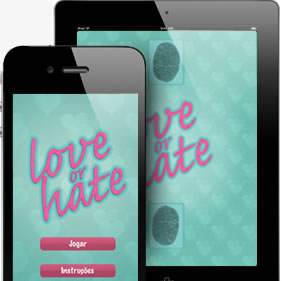
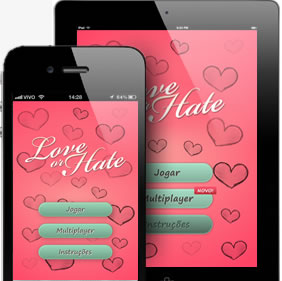
Alteração de imagens Love or Hate e Perfil Thiago

diff --git a/_includes/thiago.html b/_includes/thiago.html
@@ -1,5 +1,5 @@
 <article>
-    <span class="avatar"><img src="http://si0.twimg.com/profile_images/1879838843/profile2_reasonably_small.jpg" width="80" height="80" alt="" /><span></span></span>
+    <span class="avatar"><img src="https://si0.twimg.com/profile_images/2218363885/profile3_reasonably_small.png" width="80" height="80" alt="" /><span></span></span>
     <h3>Thiago Vieira</h3>
     <p>Possui Graduação em Design Gráfico e já cursou técnico em Processamento de Dados. Trabalha com desenvolvimento gráfico desde 2005, quando tomou gosto pela web. Envolvendo seu conhecimento de tecnologia e design com aplicação em frontend, é detalhista em seus projetos e sua percepção é voltada sempre ao usuário. Fã de AC/DC, curte o bom e velho Rock’n’Roll e tem como hobby a dança de salão.</p>
     <div class="share">

diff --git a/public/scripts/plugins.js b/public/scripts/plugins.js
@@ -1,7 +1,7 @@
 (function($) {
 	$.fn.modal = function() {
 		if($("#floater-overlay").length == 0){
-		  	$("body").append('<div id="floater-overlay">');
+		  	$("body").append('<div id="floater-overlay" title="Fechar">');
 		  	$("body").append('<div id="floater">');
 
 		  	$("#floater").append('<a class="left">').append('<a class="right">').append('<div class="reflex">').append('<div class="frame">');
